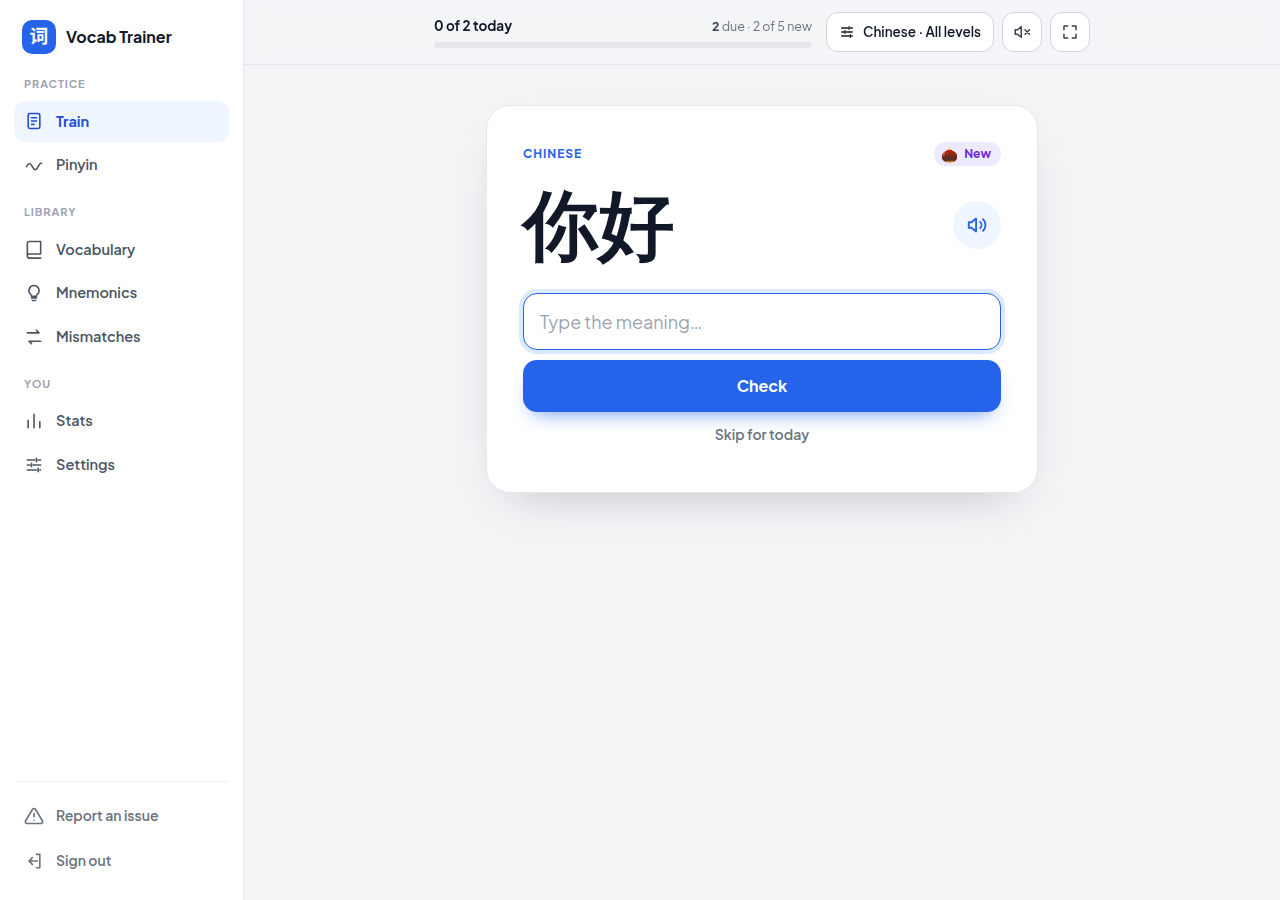
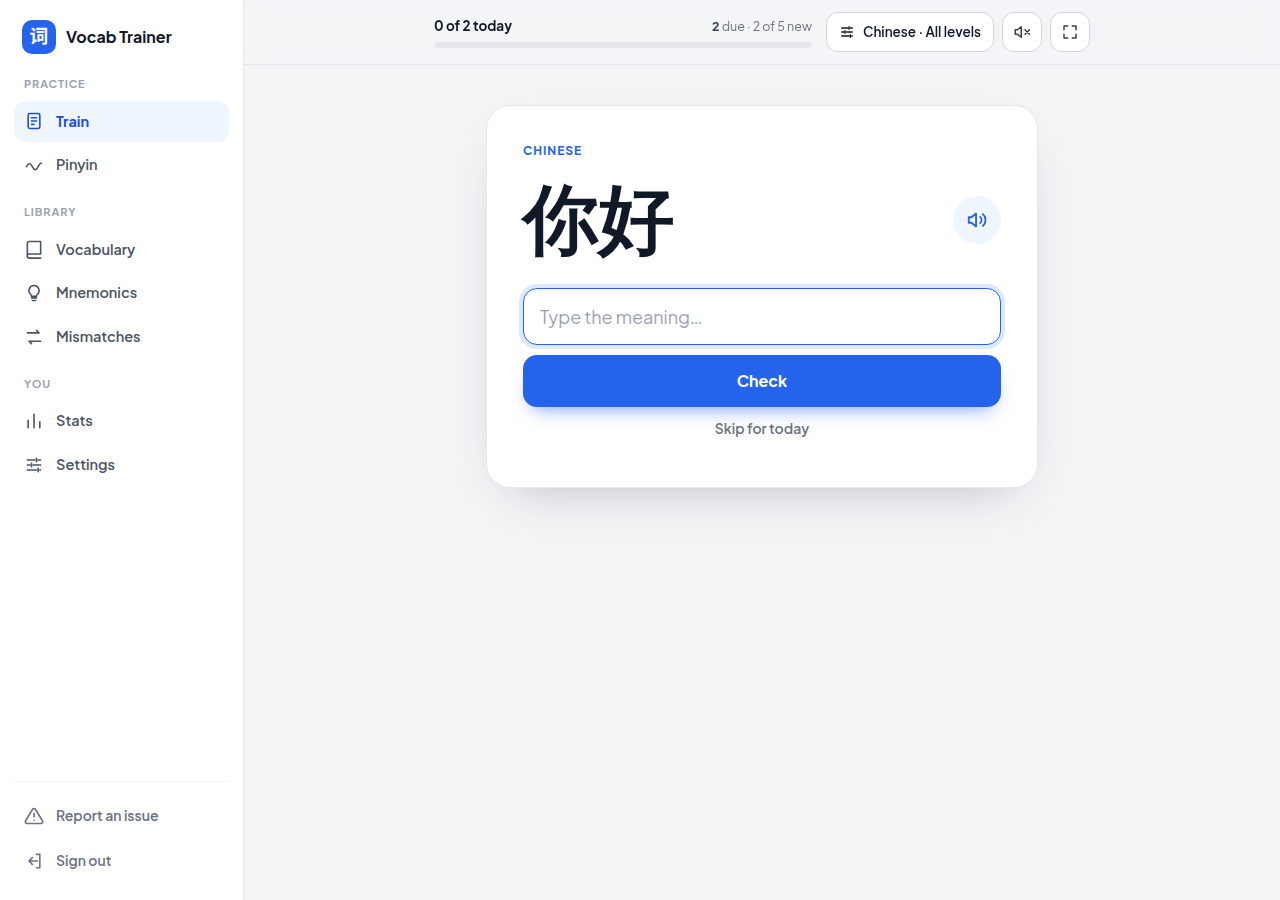
Hide the tier chip on the question screen (#513)
Claude-Session: https://claude.ai/code/session_014RWeNRVv7ZU1nbZ7V8mBoq

diff --git a/e2e/train-redesign.spec.js b/e2e/train-redesign.spec.js
@@ -50,7 +50,7 @@ test.describe('Train redesign – desktop', () => {
     await seed(page, '你好', 'nǐ hǎo', ['hello', 'hi'], ['greetings']);
     await seed(page, '再见', 'zài jiàn', ['bye', 'goodbye'], ['greetings']);
     await useMode(page, 'zh_to_transl');
-    // The tier chip is a gamification element.
+    // Gamification on: the question card still must not show a tier chip.
     await enableGamification(page);
     await page.goto('/train');
 
@@ -60,7 +60,8 @@ test.describe('Train redesign – desktop', () => {
     await expect(page.locator('#session-progress-label')).toHaveText(/^0 of \d+ today$/);
     await expect(bar.locator('#autoplay-toggle-btn')).toBeVisible();
     await expect(page.locator('#session-chip-label')).toContainText('Chinese');
-    await expect(page.locator('#card-tier')).toBeVisible();
+    // Issue #513: the question screen does not show the word's tier chip.
+    await expect(page.locator('#card-area .tier-chip')).toHaveCount(0);
     await captureForPR(page, 'train-question');
 
     await page.locator('#open-filter-overlay').click();

diff --git a/service/frontend/train-card.js b/service/frontend/train-card.js
@@ -407,15 +407,7 @@ function placeholderKeyForCard(cardType, mode) {
 function showCard() {
   show('card-area');
   $('answer-input').placeholder = t(placeholderKeyForCard(currentCard.card_type, currentCard.mode));
-  // Tier chip (word cards only) and prompt size: Hanzi prompts are larger,
-  // sentence prompts smaller.
-  const tierEl = $('card-tier');
-  if (currentCard.tier) {
-    renderTierChip(tierEl, currentCard.tier);
-    show('card-tier');
-  } else {
-    hide('card-tier');
-  }
+  // Prompt size: Hanzi prompts are larger, sentence prompts smaller.
   const promptEl = $('prompt-word');
   const zhPrompt = currentCard.card_type === 'component' ||
     (!currentCard.card_type && currentCard.mode !== 'transl_to_zh');

diff --git a/service/frontend/train.html b/service/frontend/train.html
@@ -97,7 +97,6 @@
         <div class="tr-card">
           <div class="tr-card-head">
             <div id="mode-label" class="tr-eyebrow"></div>
-            <span id="card-tier" class="hidden tier-chip"></span>
           </div>
           <div class="tr-prompt-row">
             <div id="prompt-word" class="tr-prompt font-hanzi"></div>

diff --git a/README.md b/README.md
@@ -31,7 +31,7 @@ This is a self-hosted Chinese-English vocabulary trainer. It uses the SM-2 space
 - **Due date distribution.** The `/stats` page shows a bar chart of how many words are due on each day over the next 30 days. Tag filter chips let you narrow the view to specific word groups.
 - **Confusion tracking.** If your wrong answer is a valid translation of a different, known word or hanzi component, the app records it as a confusion pair. This works in all quiz modes, including component quizzes. The result screen shows it right away as a mix-up (the asked word, then the other word with your typed meaning highlighted), and you can see the full history on the `/mismatches` page. There, each pair is a card with both words, the quiz mode, the last time you confused them and a count pill (red from 5 mix-ups). You can sort the cards by *Most often* or *Most recent*. Its translation list respects translation ranking the same way as the main result box: capped to your configured max, with the rest collapsed into a "More info" toggle.
 - Every Chinese word has a 🔊 read-aloud button. The button plays a cached MP3 file, generated with Microsoft Edge neural TTS, which is built into the binary. If this fails, the button falls back silently to the browser's Web Speech API.
-- **Training session bar.** A sticky bar on the training page shows "X of Y today" (answers today against answers plus what is still due) with a progress bar, the due and new-word counts, the session chip ("Mode · Level"), and buttons for auto-play and fullscreen. The session chip opens the **session sheet** (a bottom sheet on phones, a centred dialog on desktop) with the quiz mode, level, meaning languages, mnemonics, components and tags. Mode, level and tag changes apply when you close the sheet. The question card shows the word's tier chip. Result screens show the word, a folded **More info** box (more meanings, *Measure word* from `CL:`/`ZEW:` entries, *Example* from `Bsp.:` entries), the tier chip, the next due date, *Edit*, *Flag for review* and *Next*. When your answer is the meaning of another word, the result shows a mix-up layout: the asked word, "you typed … which is", and the other word with the typed meaning highlighted. Word cards in the learning phase show 3 streak dots when gamification is on. The character breakdown and the mnemonic scene stay available as folded sections under the result.
+- **Training session bar.** A sticky bar on the training page shows "X of Y today" (answers today against answers plus what is still due) with a progress bar, the due and new-word counts, the session chip ("Mode · Level"), and buttons for auto-play and fullscreen. The session chip opens the **session sheet** (a bottom sheet on phones, a centred dialog on desktop) with the quiz mode, level, meaning languages, mnemonics, components and tags. Mode, level and tag changes apply when you close the sheet. The question card does not show the word's tier chip, so it does not hint at how well you know the word. Result screens show the word, a folded **More info** box (more meanings, *Measure word* from `CL:`/`ZEW:` entries, *Example* from `Bsp.:` entries), the tier chip, the next due date, *Edit*, *Flag for review* and *Next*. When your answer is the meaning of another word, the result shows a mix-up layout: the asked word, "you typed … which is", and the other word with the typed meaning highlighted. Word cards in the learning phase show 3 streak dots when gamification is on. The character breakdown and the mnemonic scene stay available as folded sections under the result.
 - **Auto-play sound.** A 🔇/🔊 toggle button sits in the training session bar, next to the fullscreen button. This setting is off by default. When you turn it on, the app automatically plays the Chinese pronunciation whenever it shows a new word, component prompt, or introduction. The app never auto-plays the prompt in *Translation → Chinese* mode, because that would reveal the answer before you've answered — and it never auto-plays *Chinese (no sound) → English* prompts, for the same reason that mode hides the play button. Once you submit an answer, if the pronunciation wasn't already auto-played on the question screen (e.g. because it was withheld to avoid revealing the answer, or skipped due to the pinyin-blur setting), the app reads it out on the result screen instead — for both word and component cards. By default the setting does not persist. It resets to off when you reload the page. To start every session with auto-play on, turn on **Settings → Audio → Always play audio automatically**. You can still switch the button off on the training page.
 - **Compact mobile layout.** On small screens, the nav bar and quiz card use tighter padding and margins so more of the card fits above the on-screen keyboard.
 - **Fullscreen / installable app.** When the browser supports the Fullscreen API, a ⛶ toggle button appears in the training session bar, and the phone *More* sheet has a *Fullscreen* row on every page, letting you hide the browser chrome with a tap (browsers only allow entering fullscreen from a user gesture, so it can't happen automatically on page load). The app also ships a web app manifest, so you can "Add to Home Screen" on mobile for a standalone, chrome-free experience — installing it hides the fullscreen toggle, since there's no browser chrome left to hide.
